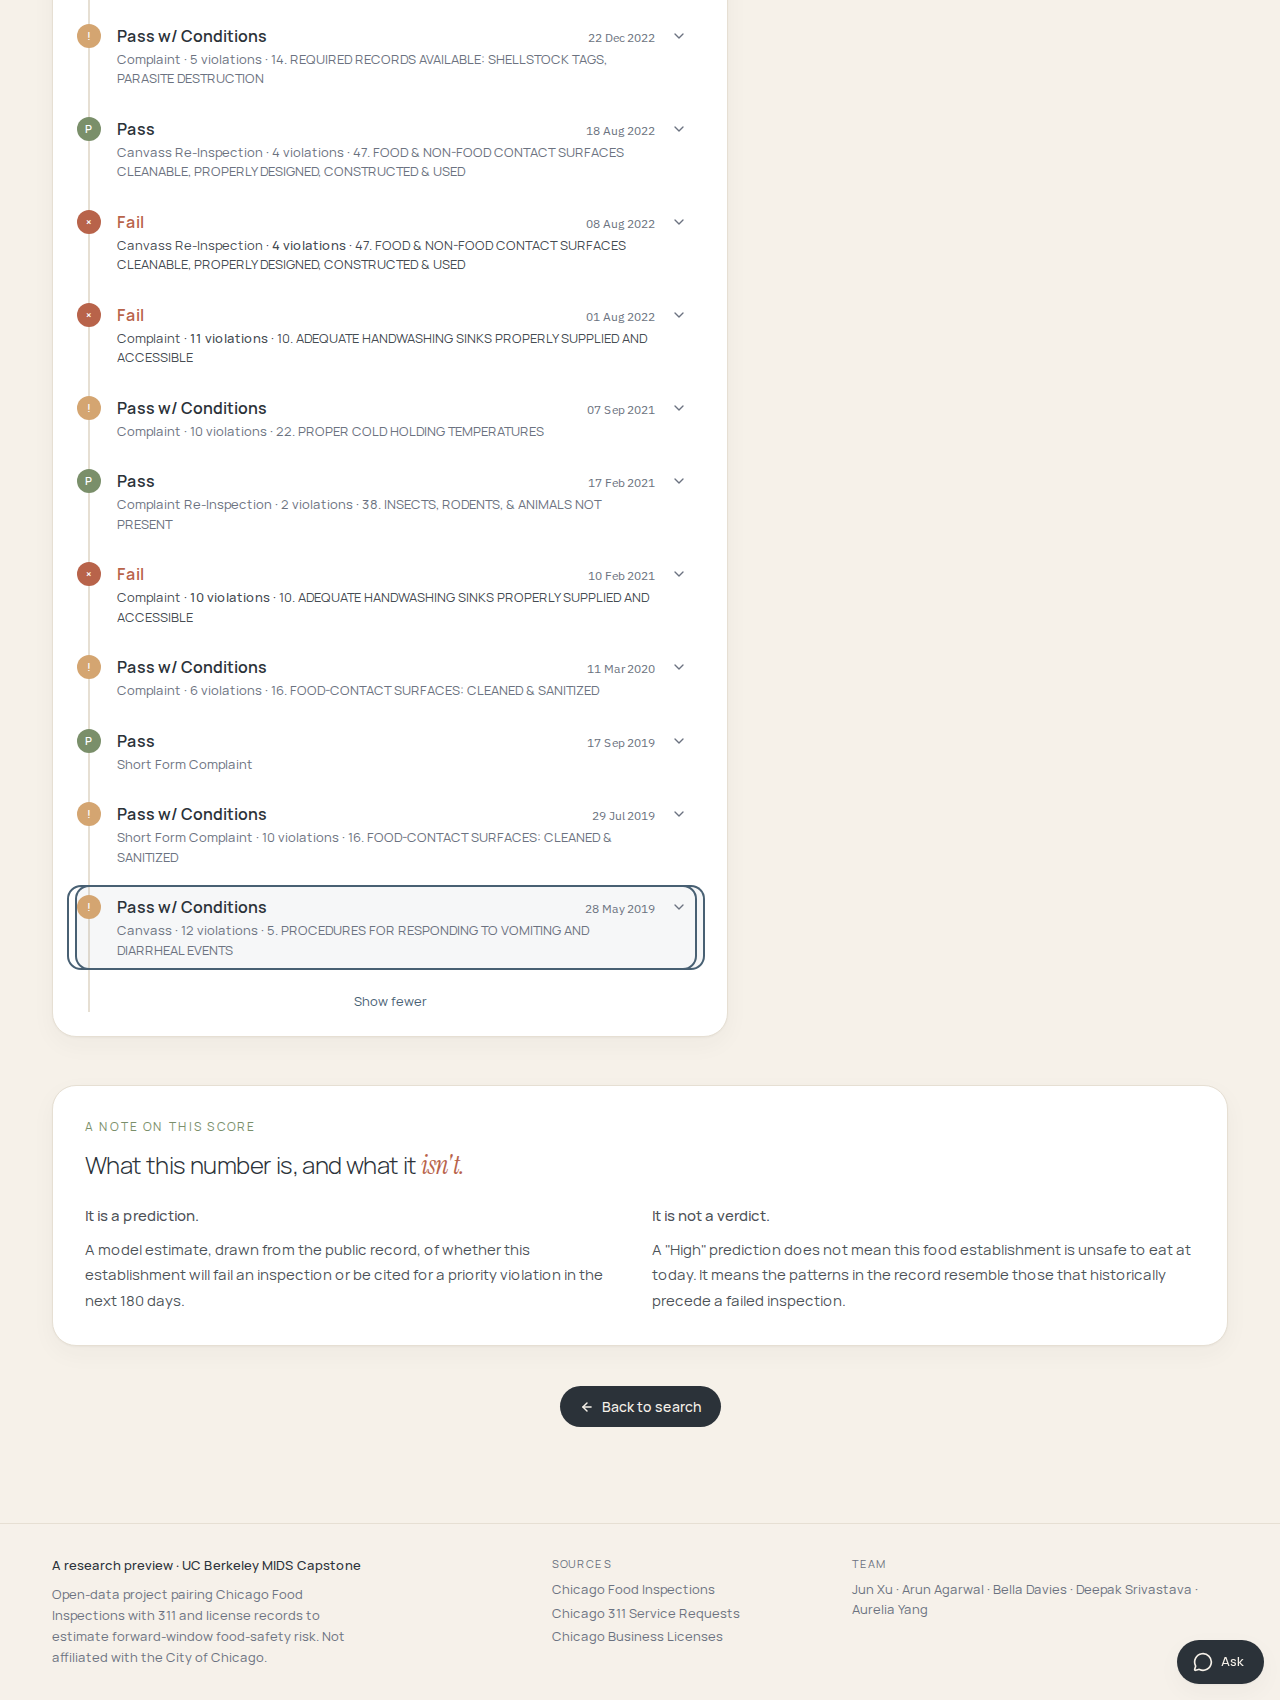
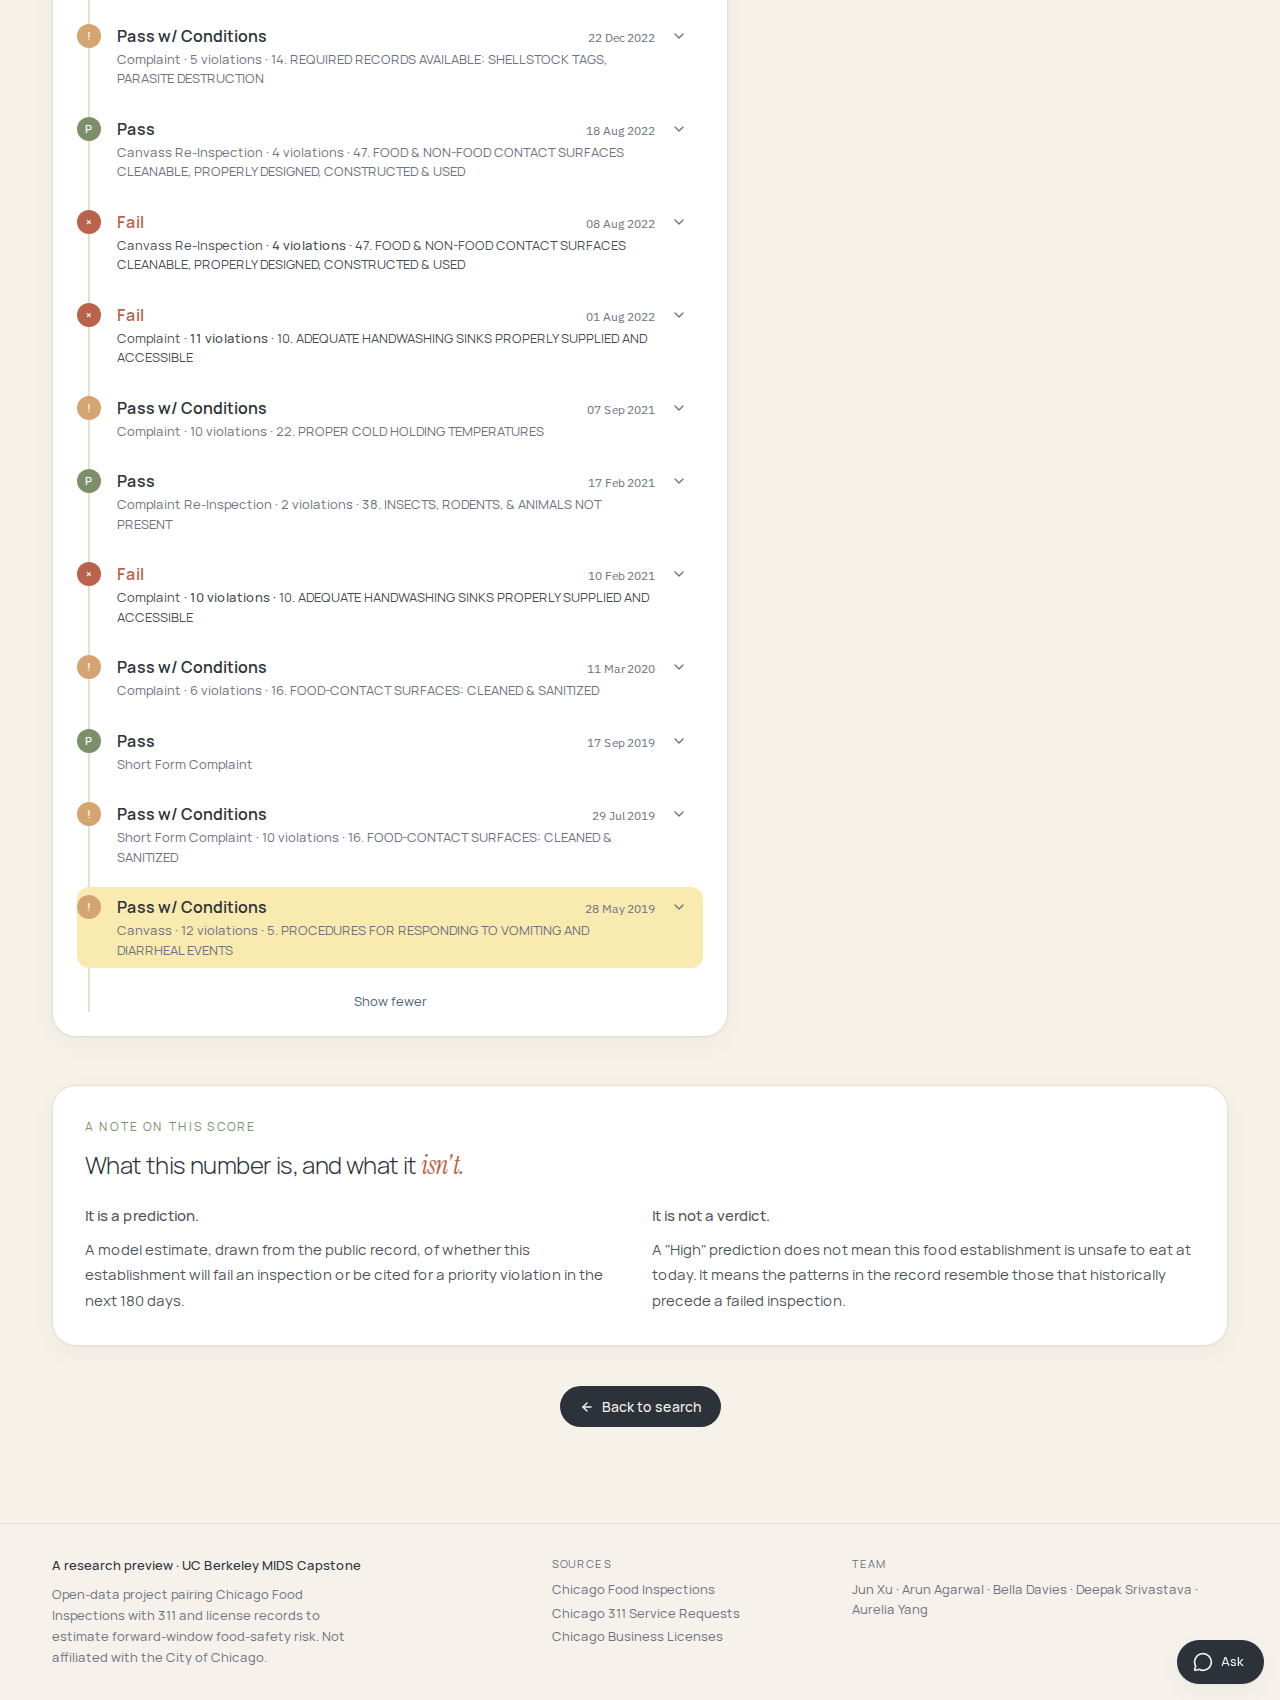
feat(app): pale-yellow row wash for inspection hardlink, drop the ring
Replace the teal outline ring (and the focused-button focus box) on a
hardlinked inspection row with a soft highlighter-yellow background wash
(new --color-highlight token). The row is now focused directly with
outline-none so screen-reader/keyboard users still land on it without a
box being drawn. Refreshes the two affected verification screenshots.

Changed region(s): [[0.0312, 0.4988, 0.5625, 0.5924]]

diff --git a/app/src/components/InspectionTimeline.tsx b/app/src/components/InspectionTimeline.tsx
@@ -109,7 +109,9 @@ export function InspectionTimeline({
     const el = document.getElementById(inspectionAnchorId(highlight));
     const raf = requestAnimationFrame(() => {
       el?.scrollIntoView({ behavior: "smooth", block: "center" });
-      el?.querySelector<HTMLButtonElement>("button")?.focus({ preventScroll: true });
+      // Focus the row itself (tabIndex -1, outline-none) rather than its button,
+      // so screen-reader/keyboard users land here without drawing a focus box.
+      el?.focus({ preventScroll: true });
     });
     const timer = setTimeout(() => setHighlight(null), 2600);
     return () => {
@@ -169,8 +171,13 @@ export function InspectionTimeline({
             <li
               key={key}
               id={anchorId}
-              className={`scroll-mt-28 rounded-xl transition-colors ${
-                isHighlighted ? "ring-2 ring-teal bg-teal/5" : "ring-0"
+              // Focusable (programmatically only) so a hardlink can move focus
+              // here for screen-reader users; outline-none keeps it from drawing
+              // a box — the pale-yellow wash is the visual cue instead.
+              tabIndex={-1}
+              data-highlighted={isHighlighted || undefined}
+              className={`scroll-mt-28 rounded-xl outline-none transition-colors duration-500 ${
+                isHighlighted ? "bg-highlight" : ""
               }`}
             >
               <button

diff --git a/app/src/app/globals.css b/app/src/app/globals.css
@@ -25,6 +25,10 @@
   --color-terra:  #B8634A;  /* High */
   --color-teal:   #486073;  /* links / accents */
 
+  /* Transient row wash when a trend-chart dot hardlinks to an inspection —
+     a soft highlighter yellow, warm enough to sit in the palette. */
+  --color-highlight: #F9EAB0;
+
   /* AA-contrast text variants of terra/sage (≥4.5:1 on white and on the
      terra/sage tints). Use these when terra/sage is TEXT, not a fill —
      the base tokens are too light for small text (terra 4.0:1, sage 3.3:1). */
